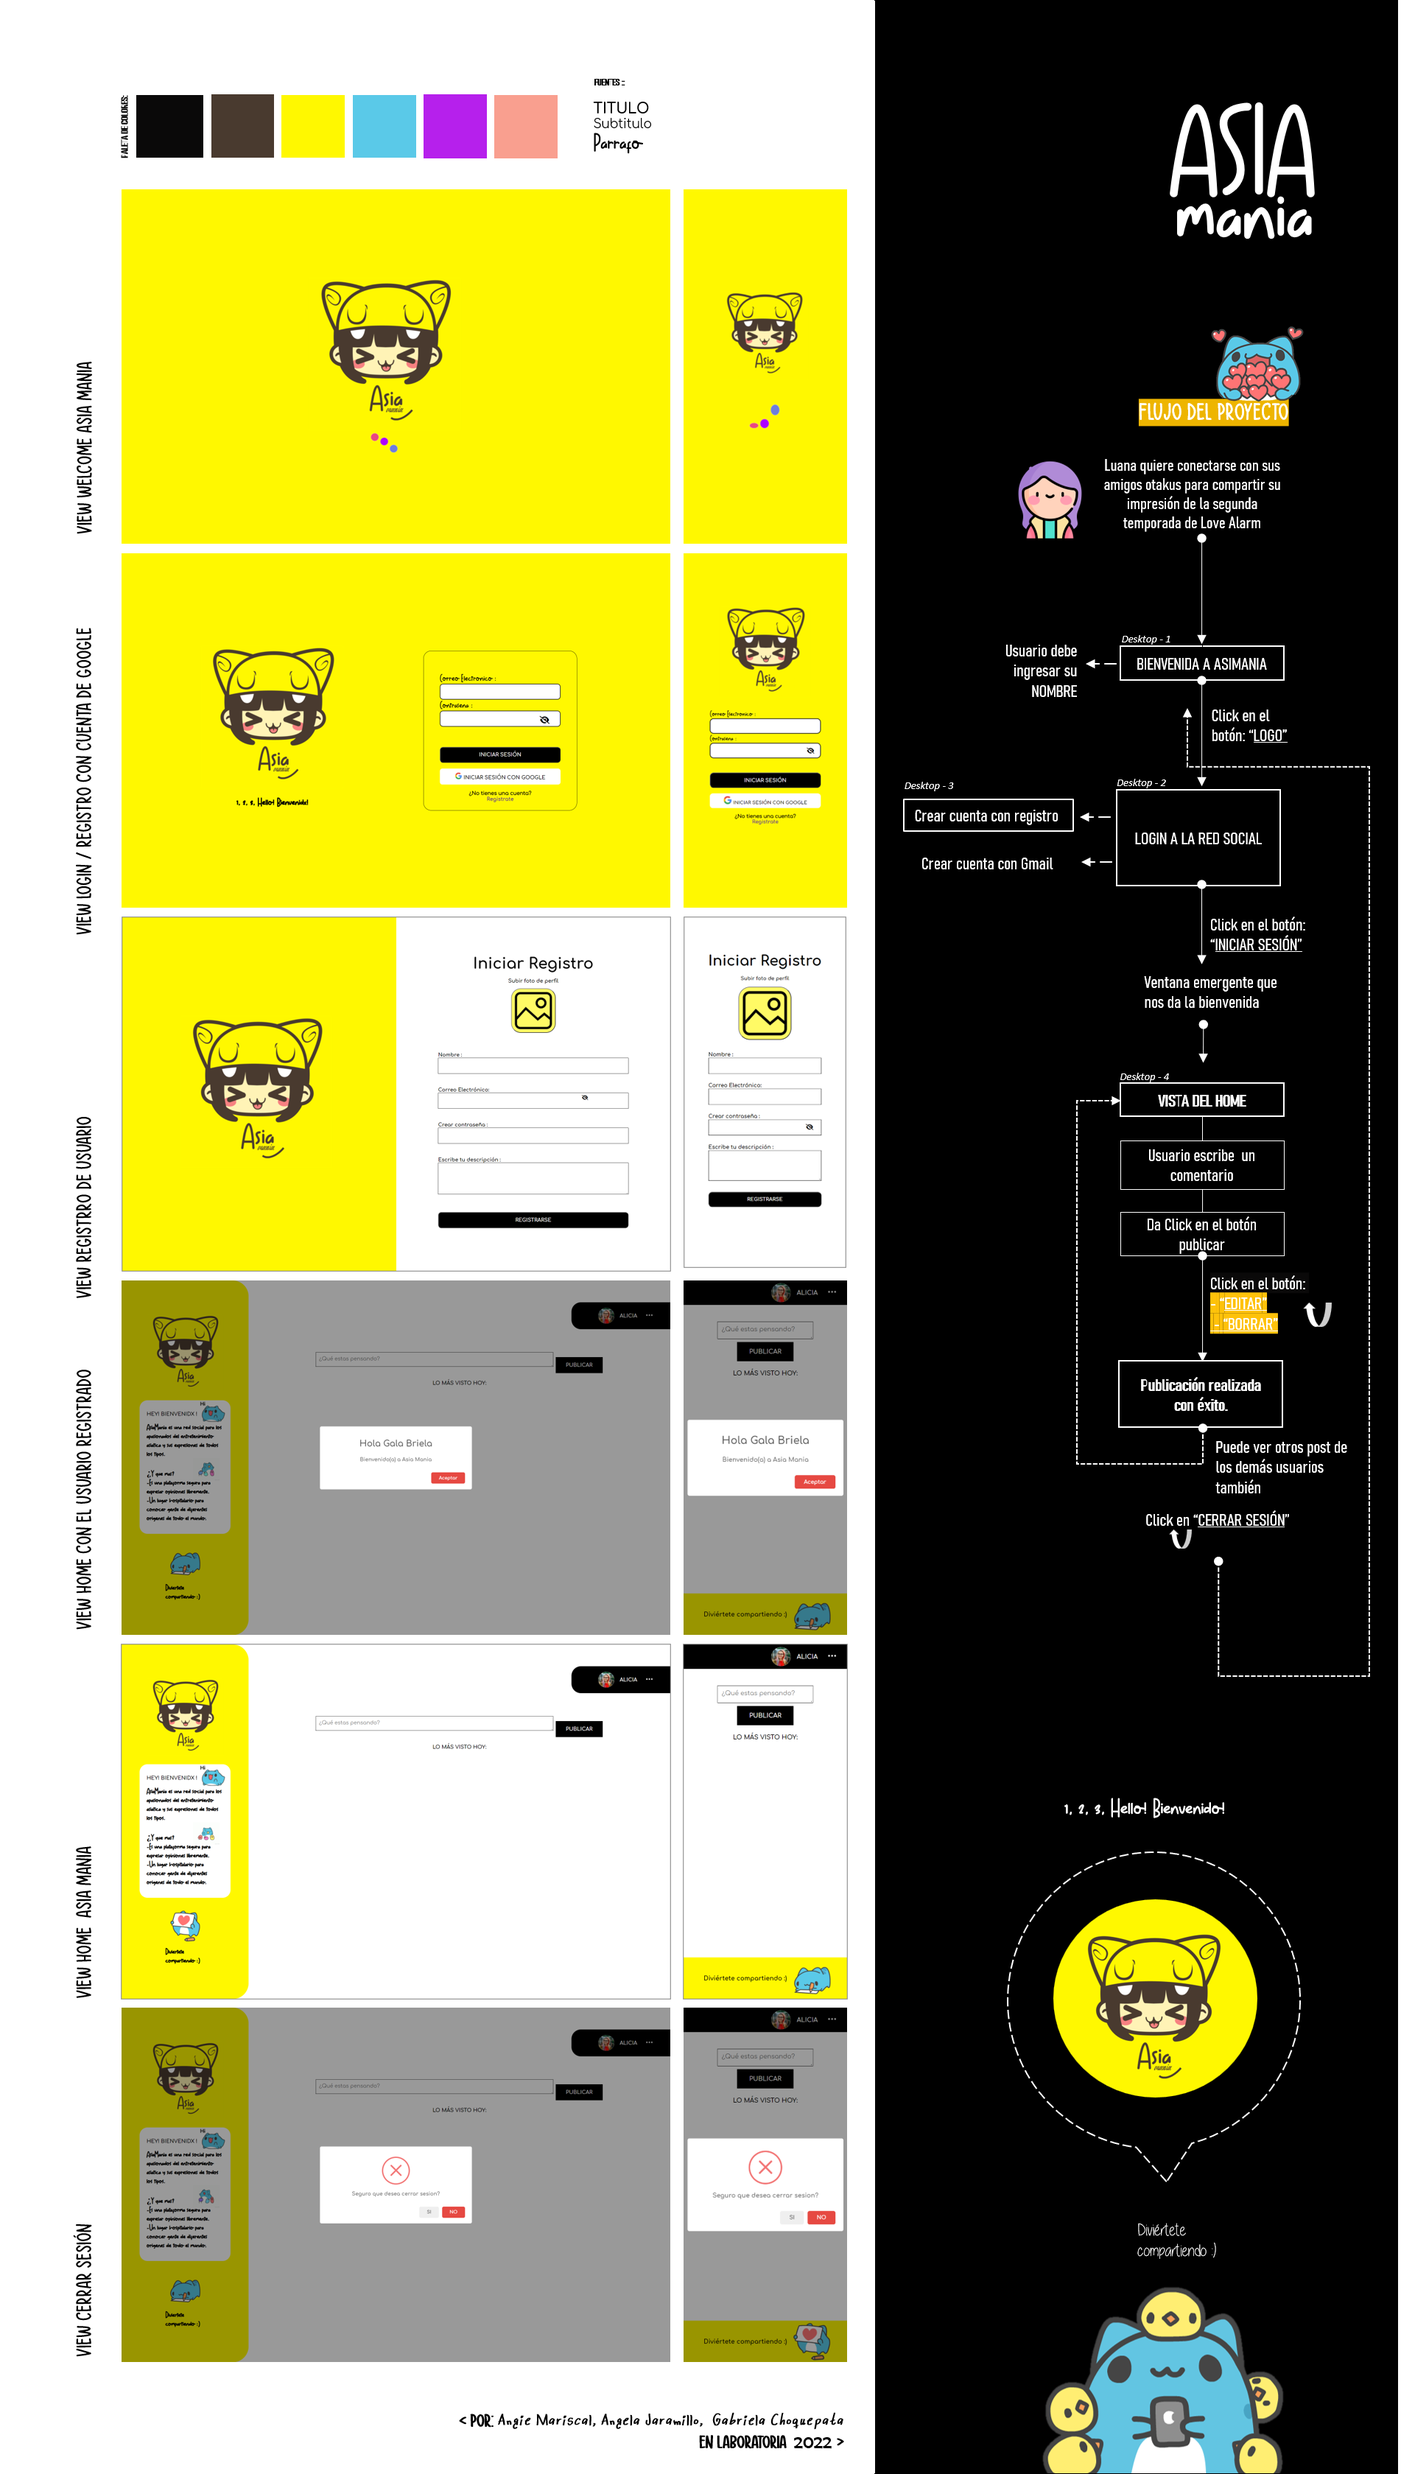
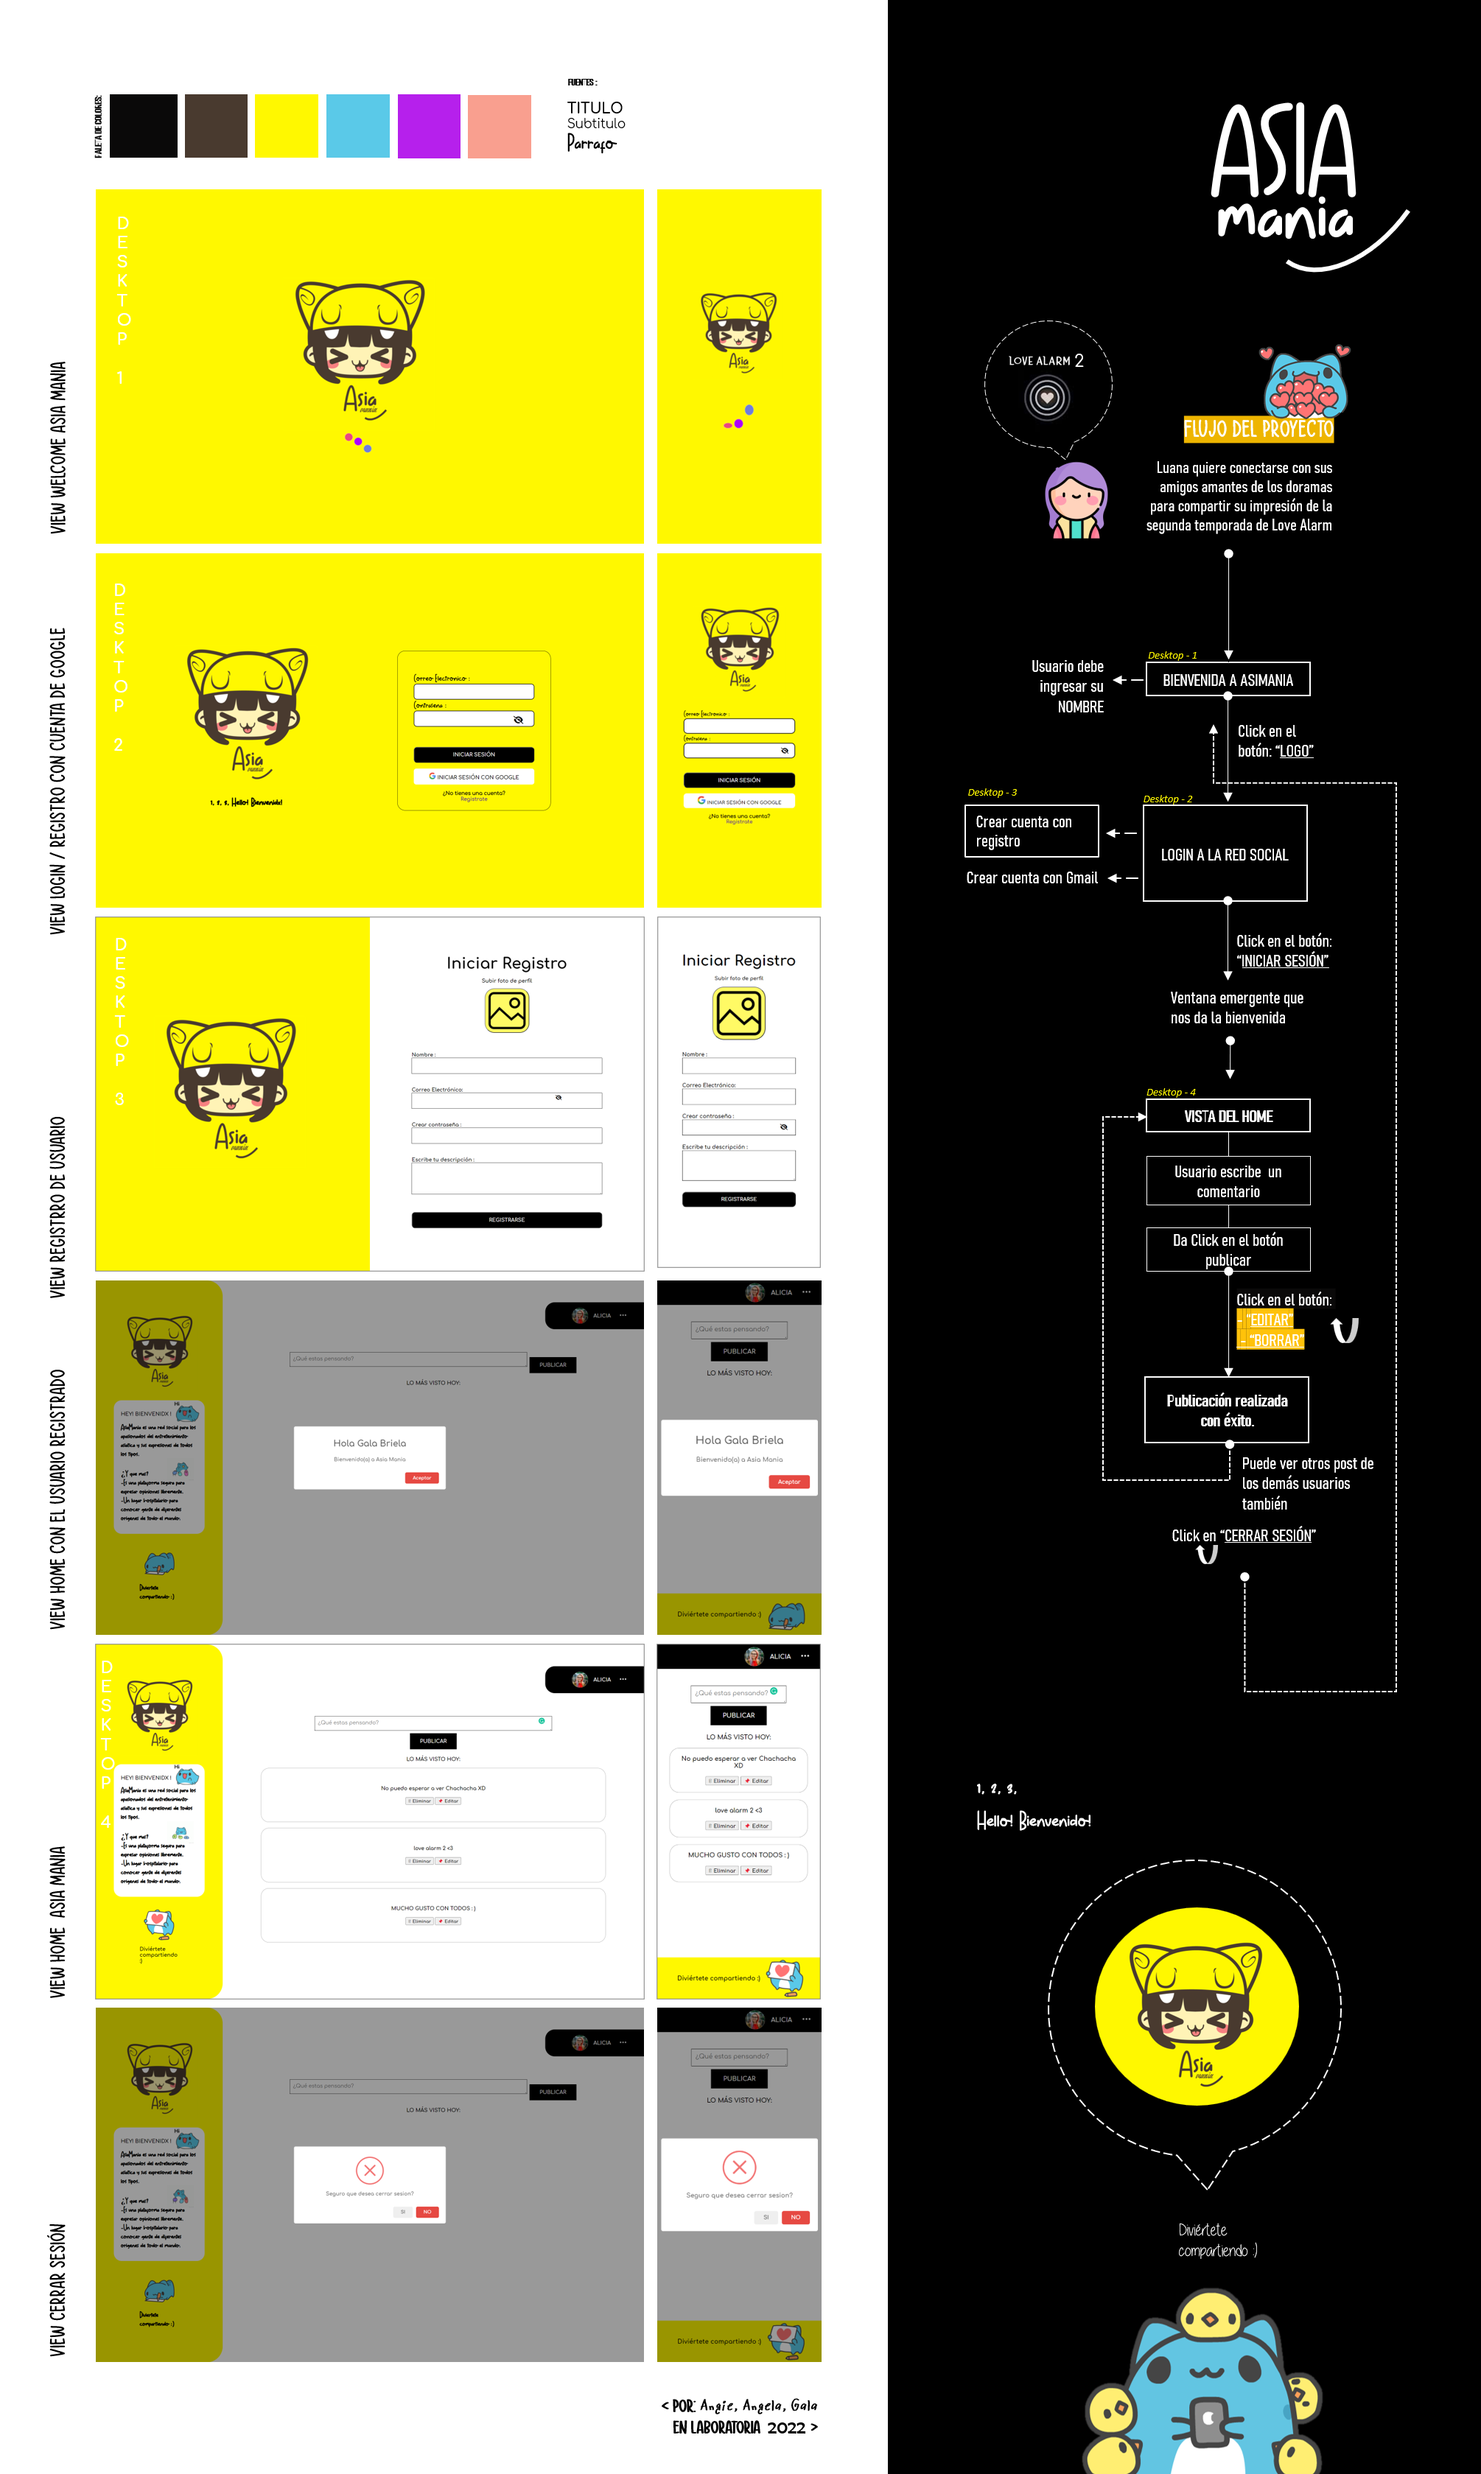
Subiendo ReadMe y ultimos cambios

diff --git a/src/Menu/MenuHome.js b/src/Menu/MenuHome.js
@@ -25,9 +25,9 @@ export const MenuHome = (rootElement) => {
           <li><img class="logoMenu" src="./image/Logo.png"  height ="265"/></li>
           <li><div class="containerCategories">
               <h3>HEY! BIENVENIDX !</h3><br>
-              <h4>AsiaMania es una red social para los apasionados del entretenimiento asiatica y sus expresiones de todos los tipos.<br><br>¿Y qué más?<br>
+              <h5>AsiaMania es una red social para los apasionados del entretenimiento asiatica y sus expresiones de todos los tipos.<br><br>¿Y qué más?<br>
               -Es una plataforma segura para expresar opiniones libremente.<br>
-              -Un lugar hospitalario para conocer gente de diferentes orígenes  de todo el mundo.</h4>
+              -Un lugar hospitalario para conocer gente de diferentes orígenes  de todo el mundo.</h5>
               </div></li>
           <img id="imageMenuHi" src="./image/hi.gif"  height ="85"/>
           <img id="imageMenuColor" src="./image/color.gif"  height ="70"/>
@@ -70,13 +70,13 @@ export const MenuHome = (rootElement) => {
       });
   });
 
-  const hamburguer = document.getElementById('iconBurger');
-  const navMenu = document.querySelector('.containerCategories');
+  // const hamburguer = document.getElementById('iconBurger');
+  /* const navMenu = document.querySelector('.containerCategories'); */
 
-  function responsive() {
+  /* function responsive() {
     navMenu.classList.toggle('active');
-  }
-  hamburguer.addEventListener('click', responsive);
+  } */
+  // hamburguer.addEventListener('click', responsive);
 
   const taskForm = document.getElementById('task-form');
   const tasksContainer = document.getElementById('tasks-container');
@@ -90,10 +90,10 @@ export const MenuHome = (rootElement) => {
       querySnapshot.forEach((doc) => {
         const newPost = doc.data();
         tasksContainer.innerHTML += `
-       <div class="showPost">
+      <div class="showPost">
       <p><h4 class="post-text">${newPost.description}</h4><p><br>
-    
-       <button class="btn btn-primary btn-delete" data-id="${doc.id}">
+
+    <button class="btn btn-primary btn-delete" data-id="${doc.id}">
       🗑 Eliminar
     </button>
     <button class="btn btn-secondary btn-edit" data-id="${doc.id}">

diff --git a/src/css/MenuHome.css b/src/css/MenuHome.css
@@ -141,7 +141,7 @@
     background: black;
     color: white;
     overflow: hidden;
-    transition: 0.2s;
+    /* transition: 0.2s; */
 }
 
 .btnPost:hover::after{
@@ -207,7 +207,6 @@
         z-index: 1;
         top: 0;
         left: 0;
-        overflow-x: hidden;
         padding-top: 20px;
         border-radius: 0px 50px 50px 0px;
     }
@@ -226,34 +225,16 @@
         background: white;
         border-radius: 25px;
         padding: 28% 18%;
+        font-family: AsiaMania-fond;
     }
 
     h3{
         font-size: 16px;
-        font-family: Comfortaa-Bold-fond;
     }
 
-<<<<<<< HEAD
-    h4{
+    h5{
         font-family: AsiaMania-fond;
         font-size: 29px;
-=======
-    .categories{
-        display: flex;
-        background: black;
-        border-radius: 27px;
-        width: 280px;
-        height: 83px;
-        color: white;
-        font-family: AsiaMania-fond, sans-serif;
-        font-size: 39px;
-
-        justify-content: center;
-        align-items: center;
-        min-height: 4rem;
-        padding: 1% 2% 1% 8%;
-        overflow: auto;
->>>>>>> eb8ed792f825aa0aecccdc77e6d36b19f86b4555
     }
 
     #imageMenuHi{
@@ -276,7 +257,7 @@
     }
 
     .description{
-        display: block;
+        /* display: block; */
         float: right;
         padding: 7% 26% 0% 0%;
         font-size: 17px;

diff --git a/src/Sesion/NewUser.js b/src/Sesion/NewUser.js
@@ -23,7 +23,7 @@ export const NewUser = (rootElement) => {
 
           <label class="form-newUser">Correo Electrónico:</label><br>
           <input class="inputFormNewUser" id="newUserEmail"></input><br>
-          
+
           <div class="passwordcreate"><label class="form-newUser">Crear contraseña :</label><br>
           <span class="icon-eye">
           <i class="fa-solid fa-eye-slash"></i></span>

diff --git a/src/css/NewUserStyle.css b/src/css/NewUserStyle.css
@@ -156,17 +156,12 @@
         height: 50px;
         font-size: 16px;
     }
-    .icon-eye{ 
-        position: absolute;
-        top:50%;
-        right:15% ;
-        transform: translateY(10%);
-        }
-
     .icon-eye{
+        position: absolute;
         top:51%;
         right:9% ;
-    }
+        transform: translateY(10%);
+        }
 }
 
  @media (min-width: 600px) and (max-width: 820px) {

diff --git a/README.md b/README.md
@@ -1,4 +1,4 @@
-# 🌐😊 RED SOCIAL - AsiaMania 🐼 
+# 🌐😊 RED SOCIAL - AsiaMania 🐼
 
 ## Índice
 
@@ -8,7 +8,7 @@
 ***
 ## 1. Definición del proyecto ✍
 
-Asia Mania es una red social pensada para conectar personas amantes del entretenimiento asiatico, compartir información, comentarios sobre animes, doramas, k-pop, noticias, creando asi una comunidad con sus amigos.
+Asia Mania es una red social pensada para conectar personas amantes del entretenimiento asiatico, compartir información, comentarios sobre animes, doramas, k-pop, noticias, creando asi una comunidad entre amigos.
 
 <img src="https://github.com/GabrielaChoquepata/LIM017-social-network/blob/main/src/image/procesoDeDise%C3%B1oRedSocial.png" width="100%"></img>
 
